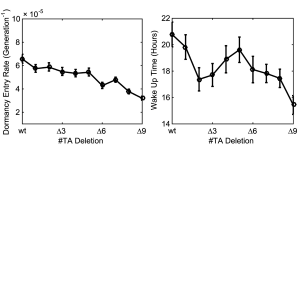
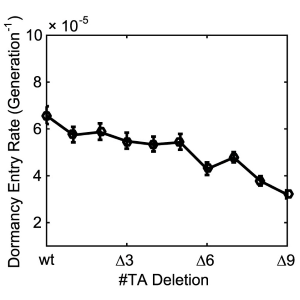
pubimage

Changed region(s): [[0.0, 0.03, 0.99, 0.96]]

diff --git a/_pages/publication.md b/_pages/publication.md
@@ -24,7 +24,9 @@ breadcrumb_list:
   </tr>
   <tr>
     <td style="width:100px"><p>
-      <img src="../images/publication/image_placeholder.png" style="max-width:100%;">
+      <a href="https://doi.org/10.1038/s41467-021-21549-x">
+        <img src="../images/publication/NatComms2021.png" style="max-width:100%;">
+      </a>  
     </p></td> 
     <td style="padding-left:20px">
       C. Yang,* <strong>C. Tian</strong>,* T. Hoffman,* N. Jacobsen, S. Spencer. 
@@ -35,7 +37,9 @@ breadcrumb_list:
   </tr>
   <tr>
     <td style="width:100px"><p>
-      <img src="../images/publication/image_placeholder.png" style="max-width:100%;">
+      <a href="https://doi.org/10.1016/j.celrep.2020.107984">
+        <img src="../images/publication/CellReport2020.png" style="max-width:100%;">
+      </a>  
     </p></td> 
     <td style="padding-left:20px">
       <strong>C. Tian</strong>,* C. Yang,* S. Spencer. 
